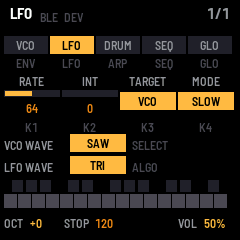
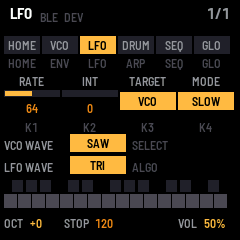
HOME, the start page: levels, then tempo and the filter
HOME 1/2 LEVELS: the synth's LEVEL and a level for each drum (BD, SN, HH
LEVEL; 100 the stock mix, under RHYTHM: drum_lvl in the engine, with a
host check). HOME 2/2 TEMPO VCF: TEMPO, CUTOFF, PEAK. FMtribe starts on
HOME; its tab comes first. Settings magic FMT8. Tests, manual,
quickstart, screenshots and v0.4.1-alpha notes updated.

Claude-Session: https://claude.ai/code/session_017ui7VjCWMFsYUM5oLQjnQg

Changed region(s): [[0.0292, 0.1458, 0.9917, 0.2917]]

diff --git a/app/app.c b/app/app.c
@@ -14,7 +14,7 @@
 /* every setting the panel edits, by number: a knob's 0..127, or a switch's position (its OPT names) */
 enum { P_CUTOFF, P_PEAK, P_WAVE, P_NOISE, P_EG, P_LEVEL, P_RHYTHM, P_LRATE, P_LINT, P_LTARGET, P_LMODE, P_LWAVE,
        P_SYNTH_CH, P_DRUM_CH, P_BLE, P_BD_DEC, P_SN_DEC, P_HH_DEC, P_KEYLIGHT, P_GLOW,
-       P_TEMPO, P_PART, P_GATE, P_SWING, P_SYNC, P_CLKOUT, P_RANGE,
+       P_TEMPO, P_PART, P_GATE, P_SWING, P_SYNC, P_CLKOUT, P_RANGE, P_BD_LVL, P_SN_LVL, P_HH_LVL,
        NSAVED,                                   /* the settings saved; after them, what the knobs edit elsewhere: */
        P_STEPS16 = NSAVED,                       /* the pattern's 16-step synth */
        P_EDSTEP, P_EDNOTE, P_EDGATE, P_EDON,     /* the step editor: its slot, and that slot's note, gate, on */
@@ -70,6 +70,9 @@ static const param_t PAR[NP] = {
     {"SYNC", 2, SYNC_OPT, 0, 0, 0},            /* the internal tempo, or MIDI clock in */
     {"CLOCK OUT", 2, OFFON_OPT, 1, 0, 0},      /* MIDI clock, start and stop out */
     {"RANGE", 3, RANGE_OPT, 2, 0, 0},          /* the ribbon's range (WIDE and NARROW not yet: the keys play KEY) */
+    {"BD LEVEL", 0, 0, 100, 0, 0},             /* each drum's level: 100 the stock mix (RHYTHM over all three) */
+    {"SN LEVEL", 0, 0, 100, 0, 0},
+    {"HH LEVEL", 0, 0, 100, 0, 0},
     {"STEPS", 2, STEPS_OPT, 0, 0, 0},          /* (the pattern's) */
     {"STEP", 0, 0, 0, 0, 15},
     {"NOTE", 0, 0, 60, 0, 0},
@@ -88,8 +91,11 @@ typedef struct {
 /* the pages, after the monotribe's panel: ENV the VCO, then the VCF and VCA; LFO; ARP the drums; SEQ the step row (on
  * the keys) and the step editor; GLO the MIDI, Bluetooth and lights. SELECT is the VCO's WAVE (on SEQ, the step
  * cursor), ALGO the LFO's WAVE on LFO, OCT- / OCT+ the octave everywhere */
-enum { PG_VCO, PG_VCF, PG_LFO, PG_DRUMS, PG_SEQ, PG_EDIT, PG_GLOBAL, PG_GLOBAL2, PG_DEVICES, NPG };
+enum { PG_HOME, PG_HOME2, PG_VCO, PG_VCF, PG_LFO, PG_DRUMS, PG_SEQ, PG_EDIT, PG_GLOBAL, PG_GLOBAL2, PG_DEVICES, NPG };
 static const page_t PAGE[NPG] = {
+    /* HOME, the start page: each instrument's level; then the tempo and the filter */
+    {"LEVELS", "HOME", B_HOME, {P_LEVEL, P_BD_LVL, P_SN_LVL, P_HH_LVL}},
+    {"TEMPO VCF", "HOME", B_HOME, {P_TEMPO, P_CUTOFF, P_PEAK, -1}},
     {"VCO", "VCO", B_ENV, {P_NOISE, P_RANGE, -1, -1}},
     {"VCF VCA", "VCO", B_ENV, {P_CUTOFF, P_PEAK, P_LEVEL, P_EG}},
     {"LFO", "LFO", B_LFO, {P_LRATE, P_LINT, P_LTARGET, P_LMODE}},
@@ -103,7 +109,7 @@ static const page_t PAGE[NPG] = {
     {"DEVICES", "GLO", B_GLO, {P_BLEDEV, -1, -1, -1}},   /* SAVE connects the pick, or lets it go (lib/btdev) */
 };
 
-#define SET_MAGIC 0x37544D46u            /* "FMT7": the settings record; another magic loads defaults */
+#define SET_MAGIC 0x38544D46u            /* "FMT8": the settings record; another magic loads defaults */
 typedef struct {
     uint32_t magic;
     int8_t octave;                       /* -3 .. +2: six positions, as the monotribe's 64' .. 2' */
@@ -202,6 +208,9 @@ static void engine_update(void)          /* the settings to the engine */
     p.decay[0] = fm_exp2f(((float)set.v[P_BD_DEC] - 32.0f) / 24.0f);   /* 32 stock; 0 x0.4 .. 127 x15 */
     p.decay[1] = fm_exp2f(((float)set.v[P_SN_DEC] - 32.0f) / 24.0f);
     p.decay[2] = fm_exp2f(((float)set.v[P_HH_DEC] - 32.0f) / 24.0f);
+    p.drum_lvl[0] = set.v[P_BD_LVL] / 100.0f;    /* 100 the stock mix, 127 ~+2 dB */
+    p.drum_lvl[1] = set.v[P_SN_LVL] / 100.0f;
+    p.drum_lvl[2] = set.v[P_HH_LVL] / 100.0f;
     tribe_set(&p);
     seq_tempo((float)set.v[P_TEMPO] * (half_tempo ? 0.5f : 1.0f));
     seq_swing((float)set.v[P_SWING] / 127.0f);
@@ -1336,7 +1345,7 @@ static void draw(void)
 void app_ui_init(void)
 {
     touch_on(1);                             /* velocity and pressure: the keys' readings on */
-    ui.page = PG_VCF;                        /* the first page at each start */
+    ui.page = PG_HOME;                        /* the first page at each start */
     lcd_fill(0, 0, 240, 240, C_BLACK);
     ui.redraw = 1;
 }
@@ -1419,7 +1428,7 @@ int app_expect(const char *what, int *got)
     static const char *const P[NP] = {"cutoff", "peak", "wave", "noise", "eg", "level", "rhythm", "rate", "int",
                                       "target", "mode", "lwave", "synth_ch", "drum_ch", "ble_off", "bd_dec", "sn_dec",
                                       "hh_dec", "keylight", "glow", "tempo", "part", "gate", "swing", "sync",
-                                      "clkout", "range", "steps16", "edstep", "ednote", "edgate", "edon", "bledev"};
+                                      "clkout", "range", "bd_lvl", "sn_lvl", "hh_lvl", "steps16", "edstep", "ednote", "edgate", "edon", "bledev"};
     int i;
     for (i = 0; i < NP; i++)                 /* a setting by its name: its 0..127, or its switch's position */
         if (!strcmp(what, P[i])) {
@@ -1446,7 +1455,7 @@ int app_expect(const char *what, int *got)
     else
     if (!strcmp(what, "octave"))
         *got = set.octave;
-    else if (!strcmp(what, "page"))         /* PG_*: VCO 0, VCF VCA 1, LFO 2, DRUMS 3, STEP 4, EDIT 5, GLO 6 7 8 */
+    else if (!strcmp(what, "page"))         /* PG_*: HOME 0 1, VCO 2, VCF VCA 3, LFO 4, DRUMS 5, STEP 6, EDIT 7, GLO 8 9 10 */
         *got = ui.page;
     else if (!strcmp(what, "gate_live"))    /* GATE TIME's gate (-1 none), GATE TIME HOLD, HALF TEMPO */
         *got = gate_val;

diff --git a/app/dsp/tribe.c b/app/dsp/tribe.c
@@ -17,7 +17,7 @@
 
 /* ------------------------------------------------------------ the settings --- */
 static tribe_params_t par = {.cutoff = 0.6f, .peak = 0.3f, .level = 0.8f, .rhythm = 0.7f, .lfo_rate = 0.5f,
-                             .decay = {1.0f, 1.0f, 1.0f}};
+                             .decay = {1.0f, 1.0f, 1.0f}, .drum_lvl = {1.0f, 1.0f, 1.0f}};
 static volatile uint32_t par_seq;               /* bumped by tribe_set: the render copies at a block's start */
 static tribe_params_t live;                     /* the render's copy */
 static uint32_t live_seq;
@@ -249,14 +249,14 @@ static inline void ping_hit(ping_t *p)
 static inline float drums(void)
 {
     float s, n, v, hp;
-    s = BD_GAIN * ping(&bd, BD_HZ, k_bd, r_bd);
-    s += SN_TONE * ping(&sn, SN_HZ, k_sn, r_sn);
+    s = BD_GAIN * live.drum_lvl[0] * ping(&bd, BD_HZ, k_bd, r_bd);
+    s += SN_TONE * live.drum_lvl[1] * ping(&sn, SN_HZ, k_sn, r_sn);
     if (sn_namp > 1e-5f || hh_amp > 1e-5f) {
         n = white();
         v = (n - sn_hp) * hp_sn_g;              /* SN noise: a one-pole high-pass (TPT) */
         hp = n - (v + sn_hp);
         sn_hp += v + v;
-        s += SN_NOISE * sn_namp * hp;
+        s += SN_NOISE * live.drum_lvl[1] * sn_namp * hp;
         sn_namp *= k_snn;
         /* HH: a TPT state-variable filter's high-pass, 4 kHz, Q 0.707 */
         hp = (n - (hh_r + hh_g) * hh_s1 - hh_s2) / (1.0f + hh_r * hh_g + hh_g * hh_g);   /* hh_r: 2R */
@@ -267,7 +267,7 @@ static inline float drums(void)
             v = hh_g * bp;
             hh_s2 = hh_s2 + v + v;
         }
-        s += HH_GAIN * hh_amp * hp;
+        s += HH_GAIN * live.drum_lvl[2] * hh_amp * hp;
         hh_amp *= k_hh;
     }
     return s;
@@ -439,6 +439,8 @@ void tribe_set(const tribe_params_t *p)
         int d;
         for (d = 0; d < 3; d++)
             par.decay[d] = fm_clampf(par.decay[d], 0.25f, 16.0f);
+        for (d = 0; d < 3; d++)
+            par.drum_lvl[d] = fm_clampf(par.drum_lvl[d], 0.0f, 1.5f);
     }
     par_seq++;
 }

diff --git a/tests/host/tribe_test.c b/tests/host/tribe_test.c
@@ -115,7 +115,7 @@ static double filter_gain(float cut01, float peak01, double hz)
 int main(int argc, char **argv)
 {
     tribe_params_t p = {.cutoff = 0.6f, .level = 1.0f, .rhythm = 1.0f, .wave = TRIBE_SAW, .eg = TRIBE_DECAY,
-                        .decay = {1.0f, 1.0f, 1.0f}};
+                        .decay = {1.0f, 1.0f, 1.0f}, .drum_lvl = {1.0f, 1.0f, 1.0f}};
     int i, n;
     double f, g1, g2;
     wav_dir = argc > 1 ? argv[1] : 0;
@@ -272,6 +272,20 @@ int main(int argc, char **argv)
             CHECK(fabs(0.1 / log(a1 / a2) * 1000 - 110) < 12, "BD DECAY x2: tau %.0f ms (110)", 0.1 / log(a1 / a2) * 1000);
             p.decay[0] = 1.0f;
         }
+        {                                        /* a drum's own level: SN at half, 6 dB down; BD untouched */
+            double a1, a2;
+            reset(&p);
+            tribe_drum(TRIBE_SN);
+            render(buf, 4410);
+            a1 = rms(buf, 4410);
+            p.drum_lvl[1] = 0.5f;
+            reset(&p);
+            tribe_drum(TRIBE_SN);
+            render(buf, 4410);
+            a2 = rms(buf, 4410);
+            CHECK(fabs(20 * log10(a1 / a2) - 6.02) < 0.5, "SN LEVEL x0.5: %.2f dB down (6.02)", 20 * log10(a1 / a2));
+            p.drum_lvl[1] = 1.0f;
+        }
         printf("       RMS 0-100 ms: BD %.1f, SN %.1f, HH %.1f dBFS\n", r[0], r[1], r[2]);
         CHECK(fabs(r[0] - r[1] - 7) < 1.5, "SN %.1f dB under BD (EST 7)", r[0] - r[1]);
         CHECK(fabs(r[0] - r[2] - 21) < 1.5, "HH %.1f dB under BD (EST 21)", r[0] - r[2]);
@@ -290,6 +304,7 @@ int main(int argc, char **argv)
         /* the LFO itself: a triangle at FAST, its period counted from its own output */
         memset(&p, 0, sizeof p);
         p.decay[0] = p.decay[1] = p.decay[2] = 1.0f;
+        p.drum_lvl[0] = p.drum_lvl[1] = p.drum_lvl[2] = 1.0f;
         p.cutoff = 0.6f; p.level = 1.0f; p.eg = TRIBE_GATE; p.lfo_mode = TRIBE_LFO_FAST; p.lfo_wave = TRIBE_LFO_TRI;
         p.lfo_rate = 0.5f;
         reset(&p);

diff --git a/app/dsp/tribe.h b/app/dsp/tribe.h
@@ -27,6 +27,7 @@ typedef struct {
     float lfo_rate;    /* 0..1: RATE, exponential over the MODE's range (FAST 1 Hz..5 kHz, SLOW and 1SHOT 0.05..18 Hz) */
     float lfo_int;     /* 0..1: INT., 0 none */
     float decay[3];    /* the drums' decays, BD SN HH: a multiple of the stock time (1 stock; the decay mods' range) */
+    float drum_lvl[3]; /* each drum's level, BD SN HH: a multiple of the stock mix (1 stock; 0 silent .. 1.27) */
     uint8_t wave;      /* TRIBE_SAW .. */
     uint8_t eg;        /* TRIBE_DECAY .. */
     uint8_t lfo_target;   /* TRIBE_LFO_VCO .. */

diff --git a/app/docs/MANUAL.md b/app/docs/MANUAL.md
@@ -42,12 +42,12 @@ can recover an FM-1 that doesn't start, too. For details, see felucca-bsp's `too
 
 ## 2. The screen
 
-![ENV 2/2, the VCF VCA page: CUTOFF 80, PEAK 30, LEVEL 100, EG DECAY, and the VCO's WAVE on SELECT](img/screen-ready.png "The VCF VCA page")
+![HOME 1/2, the LEVELS page FMtribe starts on: LEVEL, BD LEVEL, SN LEVEL and HH LEVEL, all 100](img/screen-ready.png "The LEVELS page")
 
 | Part | What it shows |
 | --- | --- |
-| Header | The page you're on, such as VCF VCA, and BLE and DEV, which light while a computer or a Bluetooth MIDI device is connected. At the right, which page of its button it is, such as 2/2, and while you play a key, the note. After a change, a message shows here for a moment, such as CUTOFF 100. |
-| Tabs | The pages' buttons: VCO (ENV), LFO, DRUM (ARP), SEQ and GLO. The one you're on is lit, and so is its button. |
+| Header | The page you're on, such as LEVELS, and BLE and DEV, which light while a computer or a Bluetooth MIDI device is connected. At the right, which page of its button it is, such as 2/2, and while you play a key, the note. After a change, a message shows here for a moment, such as CUTOFF 100. |
+| Tabs | The pages' buttons: HOME, VCO (ENV), LFO, DRUM (ARP), SEQ and GLO. The one you're on is lit, and so is its button. |
 | K1 to K4 | What the four knobs do on this page. A knob shows a bar and its value; a switch shows its position. Each lights for a moment as you turn it. |
 | Below the knobs | On the synth pages, the VCO's WAVE (SELECT) and, on LFO, the LFO's WAVE (ALGO). On DRUMS, the pads. On STEP, the pattern, a row a part. On EDIT, the synth's steps as a piano roll. |
 | Keys | The 27 keys, black above white. A held key fills up. |
@@ -57,12 +57,14 @@ can recover an FM-1 that doesn't start, too. For details, see felucca-bsp's `too
 
 ## 3. Controls
 
-The pages follow the monotribe's panel from left to right: the VCO and VCF on ENV, then the LFO, then the drums and
-the sequencer. A page's button shows it; press the button again for its next page. The four knobs K1 to K4 edit
+FMtribe starts on HOME, with the levels and the controls you reach for most. The other pages follow the monotribe's
+panel from left to right: the VCO and VCF on ENV, then the LFO, then the drums and the sequencer. A page's button shows it; press the button again for its next page. The four knobs K1 to K4 edit
 the page on the screen. A switch moves one position for each click of the knob.
 
 | Page (button) | K1 | K2 | K3 | K4 |
 | --- | --- | --- | --- | --- |
+| LEVELS 1/2 (HOME) | LEVEL | BD LEVEL | SN LEVEL | HH LEVEL |
+| TEMPO VCF 2/2 (HOME) | TEMPO | CUTOFF | PEAK | |
 | VCO 1/2 (ENV) | NOISE | RANGE | | |
 | VCF VCA 2/2 (ENV) | CUTOFF | PEAK | LEVEL | EG |
 | LFO (LFO) | RATE | INT | TARGET | MODE |
@@ -91,14 +93,15 @@ Three controls do the same job on every page:
 | WAVE (SELECT) | The oscillator: saw, triangle or square. |
 | CUTOFF | The filter's cutoff, from about 80 Hz to about 18 kHz. |
 | PEAK | The filter's resonance. Near the top, the filter whistles on its own at the cutoff while a note plays. |
-| LEVEL | The synth's volume. |
+| LEVEL | The synth's volume (on HOME 1/2 and VCF VCA 2/2). |
 | EG | The envelope. DECAY jumps to full when a note starts and dies away over about 1.3 seconds, even while you hold the key. GATE stays full while you hold it. ATTACK rises over about 1.3 seconds while you hold it. All three close quickly when you let go. |
 | RATE | The LFO's speed: about 1 Hz to 5 kHz in FAST, 0.05 Hz to 18 Hz in SLOW and 1 SHOT. |
 | INT | How much the LFO moves the pitch or the filter, from none at 0. At the top, the pitch swings an octave either way and the cutoff three octaves. |
 | TARGET | What the LFO moves: VCO (the pitch), VCO+VCF (both) or VCF (the cutoff). |
 | MODE | FAST and SLOW run all the time. FAST and 1 SHOT start again with each new note. 1 SHOT plays half a cycle when a note starts and then stops, like a second envelope. |
 | WAVE (ALGO) | The LFO: saw (falling), triangle, square, or S&H, a new random level each cycle. |
-| RHYTHM | The drums' volume. |
+| RHYTHM | The drums' volume, all three together. |
+| BD LEVEL · SN LEVEL · HH LEVEL | Each drum's own volume, under RHYTHM. 100 is the monotribe's balance between them; 127 is about 2 dB louder, 0 silent. The monotribe has no such controls; they're FMtribe's own. |
 | BD DECAY · SN DECAY · HH DECAY | Each drum's decay, as the popular hardware decay mods give it. 32 is the stock decay; lower is shorter, higher is up to about 15 times as long. |
 | SYNTH CH | The MIDI channel the synth plays on and the keys send on, 1 to 16 (1 at first). |
 | DRUM CH | The MIDI channel the drums play on and send on, 1 to 16 (10 at first). |
@@ -115,7 +118,7 @@ Three controls do the same job on every page:
 | MASTER | Sets the volume. |
 | SAVE | Saves every setting, the octave and the pattern. SAVE lights while there's something to save. On the DEVICES page, SAVE connects to a Bluetooth MIDI device instead. |
 | PLAY · REC | Start and stop the sequencer; record into it. See The sequencer. |
-| SEL · EDIT · HOME · FX | Show their names, and do nothing else yet. PRESET does nothing off the SEQ pages. |
+| SEL · EDIT · FX | Show their names, and do nothing else yet. PRESET does nothing off the SEQ pages. |
 
 ### The drums
 

diff --git a/CLAUDE.md b/CLAUDE.md
@@ -38,11 +38,12 @@ VCO → Korg35 ZDF filter → EGs → LFO → drums → sequencer. Add a host un
 each, as GIO-1's `tests/host/` does.
 
 Done (0.2): `app/dsp/tribe.c` — PolyBLEP/BLAMP VCO and the Korg35 (Pirkle AN-5) run 2x oversampled with a 35-tap
-halfband; Decay/Gate/Attack EGs; BD/SN/HH. `tests/host/tribe_test.c` checks each against the estimates above (and
+halfband; Decay/Gate/Attack EGs; BD/SN/HH (each with its own level, drum_lvl, 1 = stock mix; FMtribe's addition). `tests/host/tribe_test.c` checks each against the estimates above (and
 writes WAVs); `app/tests/sound.txt` covers the panel and MIDI map. Constants marked GUESS in tribe.c (Gate/Attack,
 release ~12 ms, SN tone/noise balance) wait for the prototype comparison. Known gap: self-oscillation level rises
 ~2.5 dB from 80 Hz to 18 kHz; the recordings suggest it falls ~6 dB from 200 Hz to 3.5 kHz.
-UI (0.4): pages on buttons (app.c PAGE[]), after the monotribe's panel left to right: a button shows its first page,
+UI (0.4): pages on buttons (app.c PAGE[]), HOME first (the start page: LEVELS 1/2 = LEVEL, BD/SN/HH LEVEL;
+TEMPO VCF 2/2 = TEMPO, CUTOFF, PEAK), then the monotribe's panel left to right: a button shows its first page,
 pressed again its next; K1–K4 edit the page; the header shows the page name (left, in place of the app name) and x/y (right). ENV VCO 1/2 (NOISE
 RANGE; RANGE WIDE/NARROW/KEY stored, only KEY plays yet) and VCF VCA 2/2 (CUTOFF PEAK LEVEL EG); LFO (RATE INT TARGET
 MODE); ARP DRUMS (RHYTHM, BD/SN/HH DECAY; F#-G#-A# black keys are pads); SEQ STEP 1/2 (TEMPO SWING STEPS GATE) and
@@ -50,7 +51,7 @@ EDIT 2/2 (STEP NOTE GATE ON, piano roll); GLO MIDI 1/3 (SYNTH CH DRUM CH SYNC CL
 LIGHT, GLOW), DEVICES 3/3 (K1 picks, SAVE connects/lets go; scans while the page is up). Constant everywhere: OCT-/+
 the octave; SELECT the VCO WAVE (on SEQ pages the step cursor ed_slot); ALGO the LFO WAVE on LFO; PRESET the part on SEQ
 pages (part_pick; also the black part keys on STEP). EDIT edits the picked part: synth piano roll, or a drum's 16
-slots (cursor by slot, K4 ON its hits, NOTE/GATE '-'). SEL, EDIT, HOME, FX free (the user will assign SEL later). Settings are PAR[] (knob 0..127 or switch), saved as "FMT7" with
+slots (cursor by slot, K4 ON its hits, NOTE/GATE '-'). SEL, EDIT, FX free (the user will assign SEL later). Settings are PAR[] (knob 0..127 or switch), saved as "FMT8" with
 the pattern. pget/pset reach pattern-backed settings (STEPS, EDIT's STEP/NOTE/GATE/ON) and the BLE device pick (NSAVED).
 Sequencer (0.3, UI 0.4): app/seq/seq.c (o2), tests/host/seq_test.c, app/tests/seq.txt. 8 steps x 2 slots, parts
 SYNTH/BD/SN/HH, per-part active steps, gate per synth slot (127 tie), 16-step synth, swing, 96 ppqn ticks in the

diff --git a/app/site/quickstart.md b/app/site/quickstart.md
@@ -22,10 +22,12 @@ To go back to M-VAVE's firmware, or to another one, open the same installer and 
 ## 3. Play
 
 Press a page button, then turn K1 to K4 to edit that page. Press the button again for its next page; the header
-shows which one, such as VCF VCA 2/2.
+shows which one, such as LEVELS 1/2. FMtribe starts on HOME.
 
 | Page (button) | K1 | K2 | K3 | K4 |
 | --- | --- | --- | --- | --- |
+| LEVELS 1/2 (HOME) | LEVEL | BD LEVEL | SN LEVEL | HH LEVEL |
+| TEMPO VCF 2/2 (HOME) | TEMPO | CUTOFF | PEAK | |
 | VCO 1/2 (ENV) | NOISE | RANGE | | |
 | VCF VCA 2/2 (ENV) | CUTOFF | PEAK | LEVEL | EG |
 | LFO (LFO) | RATE | INT | TARGET | MODE |

diff --git a/docs/releases/v0.4.1-alpha.md b/docs/releases/v0.4.1-alpha.md
@@ -4,3 +4,6 @@
 - On the SEQ pages, PRESET picks the part: SYNTH, BD, SN or HH. The black part keys on STEP still work too.
 - EDIT edits the picked part. For a drum it shows its 16 slots, each step and its half, and K4 ON sets each hit;
   SELECT moves through the half-steps too.
+- HOME is the start page. HOME 1/2, LEVELS: the synth's LEVEL and a level for each drum (BD, SN, HH; 100 is the
+  stock balance, under RHYTHM). HOME 2/2: TEMPO, CUTOFF and PEAK.
+- Settings saved by 0.4-alpha don't carry over.
